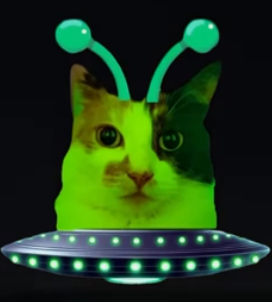
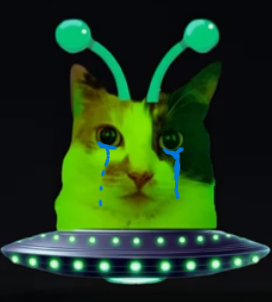
Add files via upload

diff --git a/anasayfa.css b/anasayfa.css
@@ -1,31 +1,84 @@
+/* 🔤 YEREL EL YAZISI FONT MOTORU ENJEKSİYONU */
+@font-face {
+    font-family: 'MyHandsHold'; /* CSS içinde çağırırken kullanacağımız takma isim */
+    src: url('MyHandsareHoldingYou.ttf') format('truetype'); /* Klasördeki dosyanın adı */
+    font-weight: normal;
+    font-style: normal;
+}
+
 body {
     margin: 0;
     display: flex;
     flex-direction: column;
     align-items: center;
-    background-color: #070102; /* Ana siyah rengin sabit */
+    background-color: #020205; /* Derin uzay siyahı */
     overflow-x: hidden;
+    position: relative;
 }
 
-/* Performans canavarı katman */
+/* ==========================================================================
+   🌌 DEVASA GALAKSİ MOTORU (HATALARI SİLİNMİŞ KUSURSUZ VERSİYON)
+   ========================================================================== */
+
+/* 1. KATMAN: Çok Küçük ve Sık Yıldızlar */
 body::before {
     content: "";
     position: fixed;
     top: 0;
     left: 0;
-    width: 100%;
-    height: 100%; min-height: 100vh;
-    background: linear-gradient(180deg, #070102 0%, #240101 80%, #3a0101 100%);
+    width: 2px;
+    height: 2px;
+    z-index: -2;
+    background: transparent;
+    box-shadow: 
+        15vw 10vh #fff, 25vw 45vh #fff, 40vw 15vh #fff, 55vw 70vh #fff, 70vw 30vh #fff, 85vw 80vh #fff,
+        5vw 85vh #fff, 95vw 20vh #fff, 33vw 60vh #fff, 62vw 88vh #fff, 80vw 55vh #fff, 12vw 40vh #fff,
+        50vw 50vh #fff, 75vw 15vh #fff, 22vw 92vh #fff, 88vw 5vh #fff, 45vw 78vh #fff, 68vw 65vh #fff,
+        90vw 40vh #fff, 30vw 25vh #fff, 10vw 70vh #fff, 60vw 5vh #fff, 82vw 73vh #fff, 38vw 35vh #fff,
+        3vw 12vh #fff, 18vw 55vh #fff, 28vw 8vh #fff, 48vw 63vh #fff, 58vw 22vh #fff, 73vw 85vh #fff,
+        93vw 66vh #fff, 35vw 95vh #fff, 65vw 40vh #fff, 78vw 5vh #fff, 87vw 52vh #fff, 14vw 77vh #fff;
+    opacity: 0.9;
+}
+
+/* 2. KATMAN: Biraz Daha Büyük Parlak Yıldızlar */
+.galaxy-stars {
+    position: fixed;
+    top: 0;
+    left: 0;
+    width: 3px;
+    height: 3px;
+    z-index: -2;
+    background: transparent;
+    pointer-events: none;
+    box-shadow: 
+        8vw 20vh #fff, 22vw 60vh #fff, 47vw 5vh #fff, 51vw 80vh #fff, 66vw 15vh #fff, 81vw 90vh #fff,
+        10vw 90vh #fff, 92vw 35vh #fff, 36vw 75vh #fff, 59vw 92vh #fff, 89vw 15vh #fff, 2vw 45vh #fff,
+        42vw 52vh #fff, 71vw 28vh #fff, 19vw 88vh #fff, 86vw 60vh #fff, 61vw 10vh #fff, 74vw 70vh #fff;
+    opacity: 0.75;
+}
+
+/* 🎇 3. KATMAN: YEŞİL KUZEY IŞIKLARI (AURORA EFEKTİ) */
+body::after {
+    content: "";
+    position: fixed;
+    top: -40%;
+    left: -20%;
+    width: 140%;
+    height: 140%;
     z-index: -1;
-    animation: smoothBreath 8s ease-in-out infinite alternate;
-    will-change: opacity;
+    background: radial-gradient(circle at 35% 35%, rgba(0, 255, 136, 0.28) 0%, transparent 55%),
+                radial-gradient(circle at 65% 55%, rgba(0, 200, 255, 0.18) 0%, transparent 60%),
+                linear-gradient(135deg, rgba(10, 255, 100, 0.12) 0%, transparent 65%);
+    filter: blur(50px);
+    animation: auroraDance 10s ease-in-out infinite alternate;
+    pointer-events: none;
 }
 
-@keyframes smoothBreath {
-    0% { opacity: 0.2; }
-    100% { opacity: 1; }
+@keyframes auroraDance {
+    0% { transform: rotate(0deg) scale(1); opacity: 0.7; }
+    50% { transform: rotate(4deg) scale(1.12); opacity: 1; }
+    100% { transform: rotate(-3deg) scale(0.95); opacity: 0.75; }
 }
-
 /* TAM HAYALİNDEKİ O GENİŞ VE BÜYÜK KIRMIZI PANO */
 #about_me {
     color: #F5EDED;
@@ -155,10 +208,11 @@ input[type="range"]::-webkit-slider-thumb {
 @media screen and (max-width: 1040px) {
     /* Bilgisayar ekranı küçüldüğünde veya tablet/telefon modunda kırmızı kutu taşmasın */
     #about_me {
-        width: 90% !important; /* Ekranın %90'ını kaplasın, %10'luk şık siyah arka plan hep görünsün */
+        width: 95% !important; /* Ekranın %90'ını kaplasın, %10'luk şık siyah arka plan hep görünsün */
         margin-top: 25px !important;
         margin-bottom: 40px !important;
-        padding: 20px !important;
+        padding: 35px 25px !important;
+        box-sizing: border-box;
     }
 }
 
@@ -231,5 +285,55 @@ input[type="range"]::-webkit-slider-thumb {
     }
     to {
         opacity: 1; /* Resmi ve yazıyı görünür kılan asıl sihir burası pampa */
+    }
+}
+
+
+/* ==========================================================================
+   👑 DOĞUM GÜNÜ BAŞLIK STİLİ (FİYAKALI VE PARLAK)
+   ========================================================================== */
+.birthday-title {
+    font-family: 'Poppins', 'Montserrat', sans-serif; /* Eğer bu fontlar yüklüyse çok klas durur */
+    font-size: 2.8rem; /* Mobilde ve PC'de heybetli durması için ideal boyut */
+    font-weight: 900; /* Kalın, okkalı bir duruş */
+    color: #F5EDED; /* Senin o çok sevdiğin kemik beyazı/açık renk */
+    text-align: center;
+    margin-top: 10px;
+    margin-bottom: 35px; /* Altındaki içeriklerle arasında ferah bir boşluk bıraktık */
+    text-transform: uppercase; /* Tüm harfleri otomatik büyük yapar */
+    letter-spacing: 2px; /* Harflerin arası biraz açık olsun, premium dursun */
+    
+    /* Hafif parıltı efekti: Kırmızı panonun üstünde harika patlayacak */
+    text-shadow: 0 0 10px rgba(255, 255, 255, 0.3), 
+                 3px 3px 0px #1b1616; /* Arkasına sert siyah bir gölge atarak jilet gibi keskinleştirdik */
+}
+
+/* ==========================================================================
+   👑 DOĞUM GÜNÜ BAŞLIĞI (KESKİNLİKLER VE GÖLGELER UÇURULDU)
+   ========================================================================== */
+.birthday-title {
+    font-family: 'MyHandsHold', cursive !important;
+    font-size: 3.8rem; /* Boyutu el yazısına göre gayet ideal */
+    font-weight: normal !important; /* Kalınlaştırma kesinlikle yok, font incecik kalacak */
+    color: #F5EDED; /* Senin o kemik beyazı rengin */
+    text-align: center;
+    margin-top: 15px;
+    margin-bottom: 35px;
+    letter-spacing: 0px; /* Harfler el yazısı gibi doğal mesafede dursun */
+
+    /* 🎯 İŞTE O KESKİNLİĞİ VE BEYAZ PARLAMAYI BİTİREN SİHİRLİ SATIR: */
+    text-shadow: none !important; /* Etrafındaki o yapay, keskin siyahlığı ve parıltıyı tamamen sildik amınake! */
+    
+    /* Yazının tarayıcıda daha pürüzsüz ve yumuşak görünmesi için bilişimci hilesi */
+    -webkit-font-smoothing: antialiased;
+    -moz-osx-font-smoothing: grayscale;
+}
+
+/* Telefonlar için boyut ayarı */
+@media screen and (max-width: 768px) {
+    .birthday-title {
+        font-size: 2.4rem;
+        margin-bottom: 25px;
+        text-shadow: none !important; /* Mobilde de gölgesiz, dümdüz ve doğal */
     }
 }

diff --git a/anasayfa.js b/anasayfa.js
@@ -21,30 +21,51 @@ document.getElementById('curtain-content').addEventListener('click', function() 
     if (clickCount === 1) {
         // 1. TIKLAMA: Hafif titreme
         kediFoto.className = "shake-1"; 
-        altyazi.innerText = "MUEHEHEHE! Cihazını Ele GEÇİRİYORUZ!!\nYardimci Olmak için FOTOĞRAFA TIKLA!!!";
+         kediFoto.src = "konusankedy.gif";
+        altyazi.innerText = "MUEHEHEHE! SENİ KANDIRDIK ESLEM!! BİİZ PİTOPATİPİ UZAYLILARIYIZ!! Cihazını Ele GEÇİRİYORUZ!!\nİş birliği yapmazsan kötü seyler olur. FOTOĞRAFA TIKLAMANI EMREDİYORUZ!!!";
     } 
     else if (clickCount === 2) {
         // 2. TIKLAMA: Orta deprem
         kediFoto.className = "shake-2"; 
+         kediFoto.src = "konusankedy.gif";
         altyazi.innerText = "DAHA SERT BAS İNSAN!!!!";
     } 
     else if (clickCount === 3) {
         // 3. TIKLAMA: Kıyamet depremi
         kediFoto.className = "shake-3"; 
-        altyazi.innerText = "DAHA SERT DEDİM İKİ AYAK UZERİNDE DURAN SAPSAL!!!";
+         kediFoto.src = "konusankedy.gif";
+        altyazi.innerText = "DAHA SERT DEDİM SAPSAL!!!";
     } 
     else if (clickCount === 4) {
         // 4. TIKLAMA: Komik fotoğraf gelir, sallanma hafifler
-        kediFoto.className = "shake-1"; 
-        kediFoto.src = "yesiluzayli.gif"; 
-        altyazi.innerText = "HAYİR GEÇ BUNU ÇABUK BAS!!!\nBU SON ŞANSIN İNSAN KILIĞINDAKİ ŞEY!!!";
+        kediFoto.className = "shake-2"; 
+        kediFoto.src = "kebab.jpg"; 
+        altyazi.innerText = "BU NASIL GELD- ...........";
     } 
-    else if (clickCount === 5) {
+      else if (clickCount === 5) {
+        // 4. TIKLAMA: Komik fotoğraf gelir, sallanma hafifler
+        kediFoto.className = ""; 
+        kediFoto.src = "kebab.jpg"; 
+        altyazi.innerText = "Oh- .......";
+    } 
+      else if (clickCount === 6) {
+        // 4. TIKLAMA: Komik fotoğraf gelir, sallanma hafifler
+        kediFoto.className = ""; 
+        kediFoto.src = "ıslak.jpg"; 
+        altyazi.innerText = "....";   
+    } 
+     else if (clickCount === 7) {
+        // 4. TIKLAMA: Komik fotoğraf gelir, sallanma hafifler
+        kediFoto.className = ""; 
+        kediFoto.src = "uykulu.jpg"; 
+        altyazi.innerText = "...";   
+    } 
+    else if (clickCount === 8) {
         // 5. TIKLAMA: KRİTİK NOKTA! Titreme biter, yavaşça yeni foto/yazı gelir
         kediFoto.className = ""; 
         kediFoto.src = "papa.png"; 
         
-        altyazi.innerText = "Sanirim artık bir anlamı kalmadı... İyice rezil olduk...\nAma 1 kez daha tıklamaktan zarar gelmez!! Sadece 1 kezcik daha tıkla insan kılıklı şey!!";
+        altyazi.innerText = "... Bütün bir yolcuğumun böyle utanç duruma düşmem için miydi? Onurum kırıldı. \n Tıklayıp tıklamaman artık umrumda değil. İstersen tıkla sen bilirsin...";
 
         kediFoto.classList.remove("fade-in-effect", "shake-1", "shake-2", "shake-3");
         altyazi.classList.remove("fade-in-effect");
@@ -55,7 +76,7 @@ document.getElementById('curtain-content').addEventListener('click', function() 
         kediFoto.classList.add("fade-in-effect");
         altyazi.classList.add("fade-in-effect");
     } 
-    else if (clickCount === 6) {
+    else if (clickCount === 9) {
         // 6. TIKLAMA: MUTLU SON! Perde kalkar, şov başlar
         const curtain = document.getElementById('black-curtain');
         curtain.style.opacity = '0';

diff --git a/index.html b/index.html
@@ -8,13 +8,15 @@
     <script src="anasayfa.js" defer></script>
 </head>
 <body class="animated-background">
-
+<div class="galaxy-stars"></div>
     <!-- 1. PERDE: SİYAH GİRİŞ PERDESİ (Body'nin hemen içine, en üste yazılır) -->
 <div id="black-curtain">
     <div id="curtain-content">
         <!-- İlk başta hiçbir sallantı sınıfı yok, dümdüz ve hareketsiz duracak -->
-        <img src="konusankedy.gif" alt="Sürpriz" id="click-image">
-        <p id="click-text">Fotoğrafa Tıkla...</p>
+        <img src="gentelcat.jpg" alt="Sürpriz" id="click-image">
+        <p id="click-text">Hey Merhabalar!! Şapşallığımdan ötürü beni maruz görün efendim. <br> 
+        sizlere hayatınızda bir daha göremeyeceğiniz bir teklifle gelmiş bulunmaktayım!!<br> 
+        TAM TAMINA 100M ROBUX KAZANDINIZ TEBRİK EDERİM!!!! ROBUXLARINIZI ALMAK İÇİN FOTOĞRAFA TIKLAYABİLİRSİNİZ!!! </p>
     </div>
 </div>
 
@@ -27,9 +29,10 @@
 
     <div id="main-content" style="display: none;">
         <div id="about_me">
-            <p>BOMBARDİLO BOMBA RİLO</p>
-        </div>
-    </div>
+    <h1 class="birthday-title">DOĞUM GÜNÜN KUTLU OLSUN ESLEM!!</h1>
+    
+    ...
+</div>
 
 </body>
 </html> 